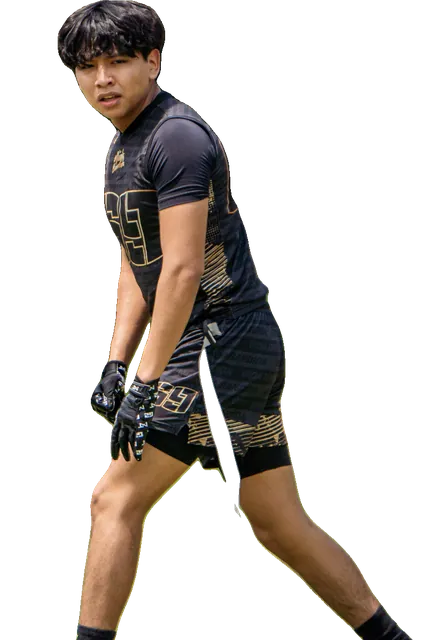
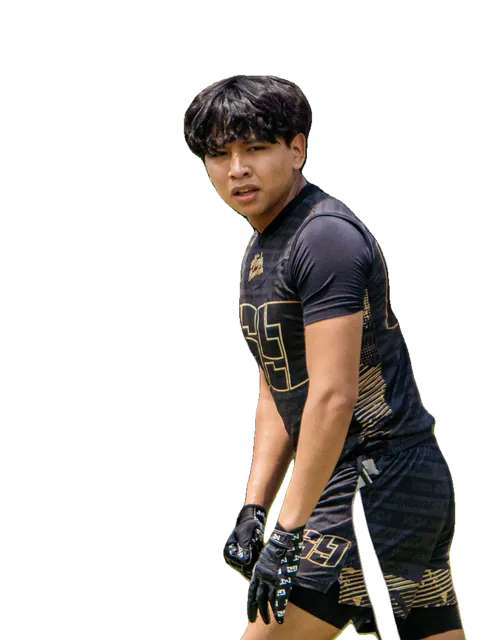
Fotos de Inicio encuadradas por la cara, transición salida/entrada y más color en el bloque rojo

diff --git a/app/js/vistas/inicio.js b/app/js/vistas/inicio.js
@@ -41,6 +41,7 @@ export function tarjetaNotificaciones(rama) {
 
 // ---------------- fotos de jugadores detrás de los bloques (rotan cada 8 s)
 const ROTAR_MS = 8000;
+const SALIDA_MS = 500; // igual que la transición de .foto-jugador img.sale en styles.css
 let fotoIdx = Math.floor(Math.random() * 1000); // al abrir la app empieza en una al azar
 function fotosDe(rama) {
   const todas = M.fotosHero || [];
@@ -67,12 +68,16 @@ export function iniciarFotos(raiz) {
     fotoIdx++;
     for (const capa of capas) {
       const f = fotoEn(lista, +capa.dataset.fotoLugar);
-      const img = new Image();
-      img.alt = ""; img.className = "entra"; img.src = f.img;
-      img.decode().catch(() => {}).then(() => {
-        capa.appendChild(img);
-        requestAnimationFrame(() => requestAnimationFrame(() => img.classList.remove("entra")));
-        setTimeout(() => { while (capa.children.length > 1) capa.firstElementChild.remove(); }, 1100);
+      const nueva = new Image();
+      nueva.alt = ""; nueva.className = "entra"; nueva.src = f.img;
+      // primero sale la actual; cuando ya no se ve, entra la nueva (nunca encimadas)
+      nueva.decode().catch(() => {}).then(() => {
+        const vieja = capa.querySelector("img");
+        vieja?.classList.add("sale");
+        setTimeout(() => {
+          capa.replaceChildren(nueva);
+          requestAnimationFrame(() => requestAnimationFrame(() => nueva.classList.remove("entra")));
+        }, vieja ? SALIDA_MS : 0);
       });
     }
   }, ROTAR_MS);

diff --git a/app/css/styles.css b/app/css/styles.css
@@ -223,12 +223,13 @@ html[data-dir="izq"]::view-transition-new(root) { animation-name: vt-entra-izq; 
 }
 .foto-jugador img {
   position: absolute; right: 0; bottom: 0; height: 100%; width: auto; max-width: none;
-  transition: opacity 1s ease;
+  transition: opacity .7s ease, transform .7s cubic-bezier(.2,.8,.2,1);
 }
-.foto-jugador img.entra { opacity: 0; }
+.foto-jugador img.entra { opacity: 0; transform: translateY(10px) scale(.97); }
+.foto-jugador img.sale { opacity: 0; transform: translateX(12px); transition: opacity .5s ease, transform .5s ease-in; }
 .hero .foto-jugador { opacity: .5; filter: saturate(.8); }
-.destacada .foto-jugador { opacity: .5; mix-blend-mode: luminosity; }
-.destacada.con-partido .foto-jugador { opacity: .28; }
+.destacada .foto-jugador { opacity: .6; filter: saturate(.85); }
+.destacada.con-partido .foto-jugador { opacity: .32; }
 .hero > :not(.foto-jugador):not(.hero-marca), .destacada > :not(.foto-jugador) { position: relative; z-index: 1; }
 .hero-meta { display: flex; gap: 8px; flex-wrap: wrap; margin-top: 14px; position: relative; }
 

diff --git a/app/sw.js b/app/sw.js
@@ -2,7 +2,7 @@
 // También recibe las notificaciones push (OneSignal). Si no hay internet al instalar, la app sigue funcionando.
 try { importScripts("https://cdn.onesignal.com/sdks/web/v16/OneSignalSDK.sw.js"); } catch (e) { /* sin avisos push */ }
 
-const VERSION = "bandidos-v10";
+const VERSION = "bandidos-v11";
 const SHELL = [
   "./", "index.html", "manifest.webmanifest", "css/styles.css",
   "js/app.js", "js/config.js", "js/datos.js", "js/sheets.js", "js/ui.js",

diff --git a/scripts/procesar_fotos_hero.py b/scripts/procesar_fotos_hero.py
@@ -4,7 +4,7 @@ Recorta a los jugadores de "Fotos jugadores/" (quita el fondo) para los bloques 
     python scripts/procesar_fotos_hero.py            # procesa las fotos nuevas
     python scripts/procesar_fotos_hero.py --todas    # vuelve a procesar todas
 
-Salida: app/img/hero/<nombre>.webp (fondo transparente, 640 px de alto) y app/data/fotos_hero.json.
+Salida: app/img/hero/<nombre>.webp (fondo transparente, 480x640, cara siempre del mismo tamaño y en el mismo lugar) y app/data/fotos_hero.json.
 La rama de cada foto se toma de RAMAS (abajo); las fotos que no estén ahí salen en "Todos".
 Usa rembg con el modelo u2net_human_seg (corre local, no sube nada).
 """
@@ -21,7 +21,6 @@ RAIZ = Path(__file__).resolve().parent.parent
 ORIGEN = RAIZ / "Fotos jugadores"
 DESTINO = RAIZ / "app" / "img" / "hero"
 MANIFIESTO = RAIZ / "app" / "data" / "fotos_hero.json"
-ALTO = 640
 
 # VARONIL / FEMENIL / TODOS (coaches o fotos de grupo)
 RAMAS = {
@@ -33,7 +32,7 @@ RAMAS = {
 }
 
 
-# Limpieza a mano (fracciones del recorte final): "dejar" = polígono que se conserva, "borrar" = cajas que se quitan
+# Limpieza a mano (fracciones del recorte cabeza-rodillas): "dejar" = polígono que se conserva, "borrar" = cajas que se quitan
 LIMPIEZA = {
     "DSC06145": {"dejar": [(0.38, 0), (1, 0), (1, 1), (0.38, 1), (0.38, 0.6), (0.30, 0.55), (0.22, 0.46),
                            (0.27, 0.3), (0.33, 0.18), (0.38, 0.12)]},
@@ -42,23 +41,6 @@ LIMPIEZA = {
     "DSC07237": {"dejar": [(0.32, 0), (1, 0), (1, 1), (0.16, 1), (0.17, 0.75), (0.2, 0.6), (0.34, 0.55), (0.34, 0.15)],
                  "alto": 0.8},  # sin piernas: ahí estaba la marca de agua
 }
-
-
-def limpiar(rec, reglas):
-    a = np.array(rec)
-    h, w = a.shape[:2]
-    if "dejar" in reglas:
-        m = np.zeros((h, w), np.uint8)
-        cv2.fillPoly(m, [np.array([(x * w, y * h) for x, y in reglas["dejar"]], np.int32)], 1)
-        m = cv2.GaussianBlur(m.astype(np.float32), (7, 7), 0)
-        a[..., 3] = (a[..., 3] * m).astype(np.uint8)
-    for x0, y0, x1, y1 in reglas.get("borrar", []):
-        a[int(y0 * h):int(y1 * h), int(x0 * w):int(x1 * w), 3] = 0
-    if "alto" in reglas:
-        a = a[:int(reglas["alto"] * h)]
-    xs = np.where(a[..., 3].max(axis=0) > 20)[0]
-    rec = Image.fromarray(a[:, xs.min():xs.max() + 1])
-    return rec if rec.height == ALTO else rec.resize((round(rec.width * ALTO / rec.height), ALTO), Image.LANCZOS)
 
 
 def slug(s):
@@ -76,21 +58,104 @@ def sujeto_principal(alpha):
     return (alpha * zona).astype(np.uint8)
 
 
-def procesar(ruta, sesion):
-    im = ImageOps.exif_transpose(Image.open(ruta)).convert("RGB")
-    im.thumbnail((1800, 1800), Image.LANCZOS)
-    rgba = np.array(remove(im, session=sesion, post_process_mask=True))
-    rgba[..., 3] = sujeto_principal(rgba[..., 3])
-    ys, xs = np.where(rgba[..., 3] > 20)
-    y0, y1, x0, x1 = ys.min(), ys.max() + 1, xs.min(), xs.max() + 1
-    w, h = x1 - x0, y1 - y0
-    # cuerpo completo y lejano -> de la cabeza a las rodillas
+# Encuadre: todas las fotos salen en un lienzo de LIENZO px con la cara del mismo tamaño y en el mismo lugar
+LIENZO = (480, 640)
+CARA_ALTO = 0.16      # alto de la cara / alto del lienzo
+CARA_CENTRO = (0.5, 0.24)
+# Cara puesta a mano (fracciones de la foto) cuando la silueta engaña (gorras, brazos arriba): (x, y, ancho, alto)
+CARA = {
+    "DSC05269": (0.4047, 0.2322, 0.0714, 0.0594),
+    "DSC06145": (0.4394, 0.2166, 0.1164, 0.0969),
+    "DSC06191": (0.4516, 0.2562, 0.1953, 0.1625),
+    "DSC06236": (0.4158, 0.1753, 0.1400, 0.1400),
+    "DSC06289 (1)": (0.4439, 0.2084, 0.1074, 0.0894),
+    "DSC06290": (0.0704, 0.2744, 0.1127, 0.0938),
+    "DSC06296": (0.4150, 0.2383, 0.1533, 0.1533),
+    "DSC06379": (0.1657, 0.1670, 0.2197, 0.1828),
+    "DSC06399": (0.5061, 0.2291, 0.1803, 0.1500),
+    "DSC06558": (0.5876, 0.1944, 0.0811, 0.0675),
+    "DSC06591": (0.5167, 0.2775, 0.0811, 0.0675),
+    "DSC06661": (0.4434, 0.2175, 0.0992, 0.0825),
+    "DSC06674": (0.3608, 0.1609, 0.0879, 0.0731),
+    "DSC06775": (0.4174, 0.2100, 0.2028, 0.1688),
+    "DSC07236": (0.3679, 0.1756, 0.1562, 0.1300),
+    "DSC07237": (0.3498, 0.1719, 0.1127, 0.0938),
+    "DSC07238": (0.2961, 0.2153, 0.1562, 0.1300),
+}
+
+def aplicar_limpieza(mask, reglas):
+    """Las reglas están en fracciones del recorte cabeza-rodillas de la versión anterior; se pasan a la foto."""
+    ys, xs = np.where(mask > 20)
+    y0, x0, w, h = ys.min(), xs.min(), xs.max() + 1 - xs.min(), ys.max() + 1 - ys.min()
     alto = min(h, max(int(w * 1.5), int(h * 0.62)))
-    rec = Image.fromarray(rgba[y0:y0 + alto, x0:x1])
-    rec = rec.resize((round(rec.width * ALTO / rec.height), ALTO), Image.LANCZOS)
+    if "dejar" in reglas:
+        m = np.zeros_like(mask)
+        cv2.fillPoly(m, [np.array([(x0 + x * w, y0 + y * alto) for x, y in reglas["dejar"]], np.int32)], 1)
+        m[:y0 + 1] = m[y0 + 1]  # el polígono sigue hacia arriba
+        mask = (mask * cv2.GaussianBlur(m.astype(np.float32), (7, 7), 0)).astype(np.uint8)
+    if "alto" in reglas:
+        mask[int(y0 + reglas["alto"] * alto):] = 0
+    return mask
+
+
+def buscar_cara(mask, clave):
+    """Ubica la cabeza por la silueta: la parte de arriba hasta que se ensancha en los hombros."""
+    H, W = mask.shape
+    if clave in CARA:
+        x, y, w, h = CARA[clave]
+        return x * W, y * H, w * W, h * H
+    duro = mask > 128
+    filas = np.where(duro.any(axis=1))[0]
+    tope = filas[0]
+    col = int(np.mean(np.where(duro[tope])[0]))
+    ancho_max, centro = 0, col
+    for y in range(tope, filas[-1]):
+        xs = np.where(duro[y])[0]
+        if not len(xs):
+            continue
+        # tramo continuo que contiene la columna de la cabeza
+        cortes = np.split(xs, np.where(np.diff(xs) > 3)[0] + 1)
+        tramo = min(cortes, key=lambda c: 0 if c[0] <= col <= c[-1] else min(abs(c[0] - col), abs(c[-1] - col)))
+        ancho = tramo[-1] - tramo[0]
+        if y - tope > 10 and ancho > 1.6 * ancho_max and ancho_max > 0:
+            break
+        if ancho > ancho_max:
+            ancho_max, centro = ancho, (tramo[0] + tramo[-1]) / 2
+        col = int((tramo[0] + tramo[-1]) / 2)
+    alto_sujeto = filas[-1] - tope
+    ancho_max = min(max(ancho_max, 0.06 * alto_sujeto), 0.3 * alto_sujeto)  # por si la silueta engaña
+    h = 1.2 * ancho_max
+    return centro - ancho_max / 2, tope + 0.2 * h, ancho_max, h
+
+
+def procesar(ruta, sesion, depurar=None):
+    full = ImageOps.exif_transpose(Image.open(ruta)).convert("RGB")
+    work = full.copy()
+    work.thumbnail((1800, 1800), Image.LANCZOS)
+    s = work.width / full.width
+    mask = np.array(remove(work, session=sesion, only_mask=True, post_process_mask=True))
+    mask = sujeto_principal(mask)
     if ruta.stem in LIMPIEZA:
-        rec = limpiar(rec, LIMPIEZA[ruta.stem])
-    return rec
+        mask = aplicar_limpieza(mask, LIMPIEZA[ruta.stem])
+    cara = buscar_cara(mask, ruta.stem)
+    x, y, w, h = cara
+    if depurar is not None:
+        depurar[ruta.stem] = (work, mask, cara)
+    LW, LH = LIENZO
+    k = CARA_ALTO * LH / h                      # px del lienzo por px de la foto de trabajo
+    cx, cy = x + w / 2, y + h / 2
+    caja = (cx - CARA_CENTRO[0] * LW / k, cy - CARA_CENTRO[1] * LH / k)
+    caja = (*caja, caja[0] + LW / k, caja[1] + LH / k)  # en px de la foto de trabajo
+    rgb = full.crop(tuple(round(v / s) for v in caja)).resize(LIENZO, Image.LANCZOS)
+    alfa = Image.fromarray(mask).crop(tuple(round(v) for v in caja)).resize(LIENZO, Image.BILINEAR)
+    # si la foto original se acaba antes del borde de abajo, desvanecer ese corte
+    fin = (work.height - caja[1]) * k
+    if fin < LH:
+        a = np.array(alfa).astype(np.float32)
+        rampa = np.clip((fin - np.arange(LH)) / (0.18 * LH), 0, 1)
+        alfa = Image.fromarray((a * rampa[:, None]).astype(np.uint8))
+    rgb.putalpha(alfa)
+    return rgb
 
 
 def main():
